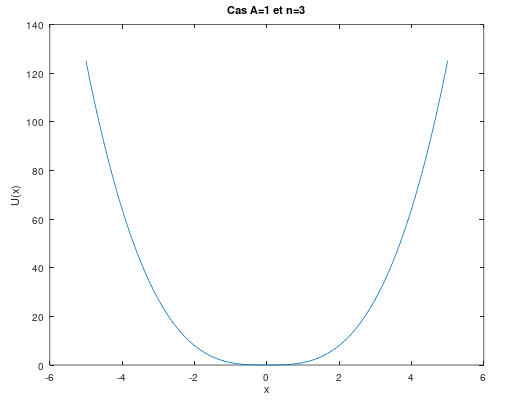
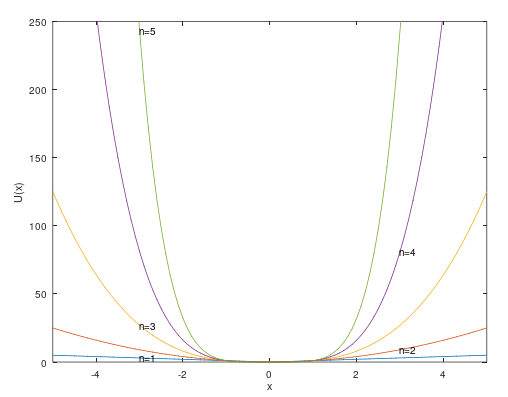
End of Chap3_Ex2a

diff --git a/Mécanique/chapters/exercices/chapter-03-exercices.tex b/Mécanique/chapters/exercices/chapter-03-exercices.tex
@@ -96,12 +96,87 @@ et en premi\`ere approximation, la p\'eriode du mouvement n'est d\'ependante ni 
 
 \subsection{Cas d'\'energies potentielles particuli\`eres}
 
+Il s'agit de d\'eterminer la p\'eriode d'oscillations en fonction de l'\'energie pour le mouvement d'une particule de masse $m$ dans un champ o\`u l'\'energie potentielle $U$ est d\'efinie telle que :
+
 \subsubsection{$U = A\lvert x \rvert^{n}$}
 
 \begin{figure}[htb!]
 	\begin{center}
 		\includegraphics[width=10cm]{chapter_03_exercice_2a}
-		\caption{$U = \lvert x \rvert^{3}$}\label{FIG:3_2_a}
+		\caption{$U = \lvert x \rvert^{n}$ pour $n \in \{1,2,3,4,5\}$}\label{FIG:3_2_a}
+	\end{center}
+\end{figure}
+
+Dans ce cas pr\'ecis, commençons par d\'efinir les points d'arr\^et tels que $E=U$, soit $x = \pm\left(\dfrac{E}{A}\right)^{\frac{1}{n}}$. Cela permet d'\'ecrire l'\'equation (\ref{EQ:11_5}) telle que :
+\bea
+	\mathrm{T}(E) & = & \sqrt{2m}\int_{-\left(\frac{E}{A}\right)^{\frac{1}{n}}}^{+\left(\frac{E}{A}\right)^{\frac{1}{n}}}\dfrac{\mathrm{d}x}{\sqrt{E - A\lvert x \rvert^{n}}} \nonumber \\
+	& = & 2\sqrt{2m}\int_{0}^{+\left(\frac{E}{A}\right)^{\frac{1}{n}}}\dfrac{\mathrm{d}x}{\sqrt{E - Ax^{n}}} \nonumber \\
+	& = & 2\sqrt{\dfrac{2m}{E}}\int_{0}^{+\left(\frac{E}{A}\right)^{\frac{1}{n}}}\dfrac{\mathrm{d}x}{\sqrt{1 - \dfrac{Ax^{n}}{E}}}
+\eea
+car la fonction $U$ est paire, i.e. $U(x) = U(-x)$. En posant :
+\be
+	y = \left(\dfrac{A}{E}\right)^{\frac{1}{n}}x
+\ee
+qui permet d'\'ecrire :
+\be
+	\begin{cases}
+		y^{n} = \dfrac{A}{E}x^{n} \\
+		\mathrm{d}y = \left(\dfrac{A}{E}\right)^{\frac{1}{n}}\mathrm{d}x
+	\end{cases}
+\ee
+et :
+\be
+	\begin{cases}
+		x = 0 \Rightarrow y = 0 \\
+		x = \left(\dfrac{E}{A}\right)^{\frac{1}{n}} \Rightarrow y = \left(\dfrac{A}{E}\right)^{\frac{1}{n}}\left(\dfrac{E}{A}\right)^{\frac{1}{n}} = 1
+	\end{cases}
+\ee
+La p\'eriode $\mathrm{T}$ devient :
+\bea
+	\mathrm{T} & = & 2\sqrt{\dfrac{2m}{E}}\int_{0}^{1}\left(\dfrac{E}{A}\right)^{\frac{1}{n}}\dfrac{\mathrm{d}y}{\sqrt{1 - y^{n}}} \nonumber \\
+	& = & 2\dfrac{\sqrt{2mE^{\frac{1}{n}-\frac{1}{2}}}}{A^{\frac{1}{n}}}\int_{0}^{1}\dfrac{\mathrm{d}y}{\sqrt{1 - y^{n}}}
+\eea
+De la m\^eme mani\`ere, en posant $u=y^{n}$, nous avons :
+\be
+	\begin{cases}
+		y = 0 \Rightarrow u = 0 \\
+		y = 1 \Rightarrow u = 1
+	\end{cases}
+\ee
+ainsi que :
+\be
+	\begin{cases}
+		y = u^{\frac{1}{n}} \Rightarrow y^{n-1} = u^{\frac{n-1}{n}} = u^{1 - \frac{1}{n}} \\
+		ny^{n-1}\mathrm{d}y = \mathrm{d}u \Leftrightarrow \mathrm{d}y = \dfrac{u^{\frac{1}{n} - 1}}{n}\mathrm{d}u
+	\end{cases}
+\ee
+Nous arrivons \`a :
+\bea
+	\mathrm{T} & = & 2\dfrac{\sqrt{2m}E^{\frac{1}{n}-\frac{1}{2}}}{A^{\frac{1}{n}}}\int_{0}^{1}\dfrac{u^{\frac{1}{n} - 1}\mathrm{d}u}{n(1-u)^{\frac{1}{2}}} \nonumber \\
+	& = & 2\dfrac{\sqrt{2m}E^{\frac{1}{n}-\frac{1}{2}}}{nA^{\frac{1}{n}}}\int_{0}^{1}u^{\frac{1}{n} - 1}(1-u)^{\frac{-1}{2}}\mathrm{d}u \label{EQ:APP3_2_a}
+\eea
+Utilisons ici les int\'egrales d'Euler de premi\`ere esp\`ece, \emph{fonction Béta}, d\'efinies telles que :
+\be
+	\mathrm{B}(x,y) = \int_{0}^{1}\mathrm{t}^{x-1}(1-\mathrm{t})^{y-1}\mathrm{dt} = \dfrac{\Gamma(x)\Gamma(y)}{\Gamma(x+y)} \label{EQ:INT_EULER_BETA}
+\ee
+et celles de seconde esp\`ece, \emph{fonction Gamma} :
+\be
+	\Gamma(z) = \int_{0}^{+\infty}\mathrm{t}^{z-1}e^{-\mathrm{t}}\mathrm{dt} \label{EQ:INT_EULER_GAMMA}
+\ee
+L'\'equation (\ref{EQ:APP3_2_a}) s'\'ecrit alors :
+\bea
+	\mathrm{T} & = & 2\dfrac{\sqrt{2m}E^{\frac{1}{n}-\frac{1}{2}}}{nA^{\frac{1}{n}}}\mathrm{B}\left(\frac{1}{n},\frac{1}{2}\right) \nonumber \\
+	& = & 2\dfrac{\sqrt{2m}E^{\frac{1}{n}-\frac{1}{2}}}{nA^{\frac{1}{n}}}\dfrac{\Gamma\left(\frac{1}{n}\right)\Gamma\left(\frac{1}{2}\right)}{\Gamma\left(\frac{1}{n}+\frac{1}{2}\right)} \nonumber
+\eea
+Or $\Gamma(1/2) = \sqrt{\pi}$, nous avons donc finalement :
+\be
+	\mathrm{T} = 2\dfrac{\sqrt{2\pi m}\Gamma\left(\frac{1}{n}\right)}{nA^{\frac{1}{n}}\Gamma\left(\frac{1}{n}+\frac{1}{2}\right)}E^{\frac{1}{n}-\frac{1}{2}}
+\ee
+
+\begin{figure}[htb!]
+	\begin{center}
+		\includegraphics[width=10cm]{chapter_03_exercice_2a_result}
+		\caption{$\mathrm{T}(E)$ pour $m=1$, $A=1$ et $n \in \{1,2,3,4,5\}$}\label{FIG:3_2_a_result}
 	\end{center}
 \end{figure}
 
@@ -110,7 +185,7 @@ et en premi\`ere approximation, la p\'eriode du mouvement n'est d\'ependante ni 
 \begin{figure}[htb!]
 	\begin{center}
 		\includegraphics[width=10cm]{chapter_03_exercice_2b}
-		\caption{$U = -2 / \cosh^{2}(0.75x)$}\label{FIG:3_2_b}
+		\caption{$U = -2 / \cosh^{2}(\alpha x)$ pour $\alpha \in \{0.25,0.35,0.45,0.55,0.65,0.75\}$}\label{FIG:3_2_b}
 	\end{center}
 \end{figure}
 
@@ -119,6 +194,6 @@ et en premi\`ere approximation, la p\'eriode du mouvement n'est d\'ependante ni 
 \begin{figure}[htb!]
 	\begin{center}
 		\includegraphics[width=10cm]{chapter_03_exercice_2c}
-		\caption{$U = 4\tan^{2}(0.25 x)$}\label{FIG:3_2_c}
+		\caption{$U = 4\tan^{2}(\alpha x)$ pour $\alpha \in \{0.25,0.35,0.45,0.55,0.65,0.75\}$}\label{FIG:3_2_c}
 	\end{center}
 \end{figure}

diff --git a/Mécanique/chapters/exercices/chapter_03_exercice_2c.m b/Mécanique/chapters/exercices/chapter_03_exercice_2c.m
@@ -1,5 +1,16 @@
-x = -5:0.1:5;
-plot (x, 4 * power(tan(0.25*x),2));
+x = -7:0.01:7;
+i = 2;
+%plot (x, 4 * power(tan(0.25*x),2));
+for alpha = 0.25:0.1:0.75
+  plot (x, 4 * power(tan(alpha*x),2));
+  %text(power(-1,i)*3, 4 * power(tan(alpha*x),2),strcat('alpha=',num2str(alpha)));
+  hold on;
+  if i == 2
+    i = 1;
+  else
+    i = 2;
+  endif
+endfor
+axis([-7, 7, 0, 10000]);
 xlabel ("x");
 ylabel ("U(x)");
-%title ("Cas U_{0}=4 et \alpha=0.25");

diff --git a/Mécanique/chapters/exercices/chapter_03_exercice_2b.m b/Mécanique/chapters/exercices/chapter_03_exercice_2b.m
@@ -1,5 +1,15 @@
 x = -5:0.1:5;
-plot (x, -2 ./ power(cosh(0.75*x),2));
+i = 2;
+for alpha = 0.25:0.1:0.75
+  plot (x, -2 ./ power(cosh(alpha*x),2));
+  text(power(-1,i)*3, -2 ./ power(cosh(alpha*3),2),strcat('alpha=',num2str(alpha)));
+  hold on;
+  if i == 2
+    i = 1;
+  else
+    i = 2;
+  endif
+endfor
+axis([-5, 5, -2, 0]);
 xlabel ("x");
 ylabel ("U(x)");
-%title ("Cas U_{0}=2 et \alpha=0.75");

diff --git a/Mécanique/chapters/exercices/chapter_03_exercice_2a_result.m b/Mécanique/chapters/exercices/chapter_03_exercice_2a_result.m
@@ -1,0 +1,9 @@
+E = 0:0.1:5;
+for n = 1:1:5
+  plot (E, 2 * sqrt(2*pi) * gamma(1./n) * power(E,1./n+0.5) ./ (n * gamma(1./n+0.5)));
+  text(n - 0.75, 2 * sqrt(2*pi) * gamma(1./n) * power(n-0.75,1./n+0.5) ./ (n * gamma(1./n+0.5)),strcat('n=',num2str(n)));
+  hold on;
+endfor
+axis([0, 5, 0, 70]);
+xlabel ("E");
+ylabel ("T(E)");

diff --git a/Mécanique/chapters/exercices/chapter_03_exercice_2a.m b/Mécanique/chapters/exercices/chapter_03_exercice_2a.m
@@ -1,5 +1,9 @@
 x = -5:0.1:5;
-plot (x, power(abs(x),3));
+for n = 1:1:5
+  plot (x, power(abs(x),n));
+  text(power(-1,n)*3, power(3,n),strcat('n=',num2str(n)));
+  hold on;
+endfor
+axis([-5, 5, 0, 250]);
 xlabel ("x");
 ylabel ("U(x)");
-title ("Cas A=1 et n=3");
